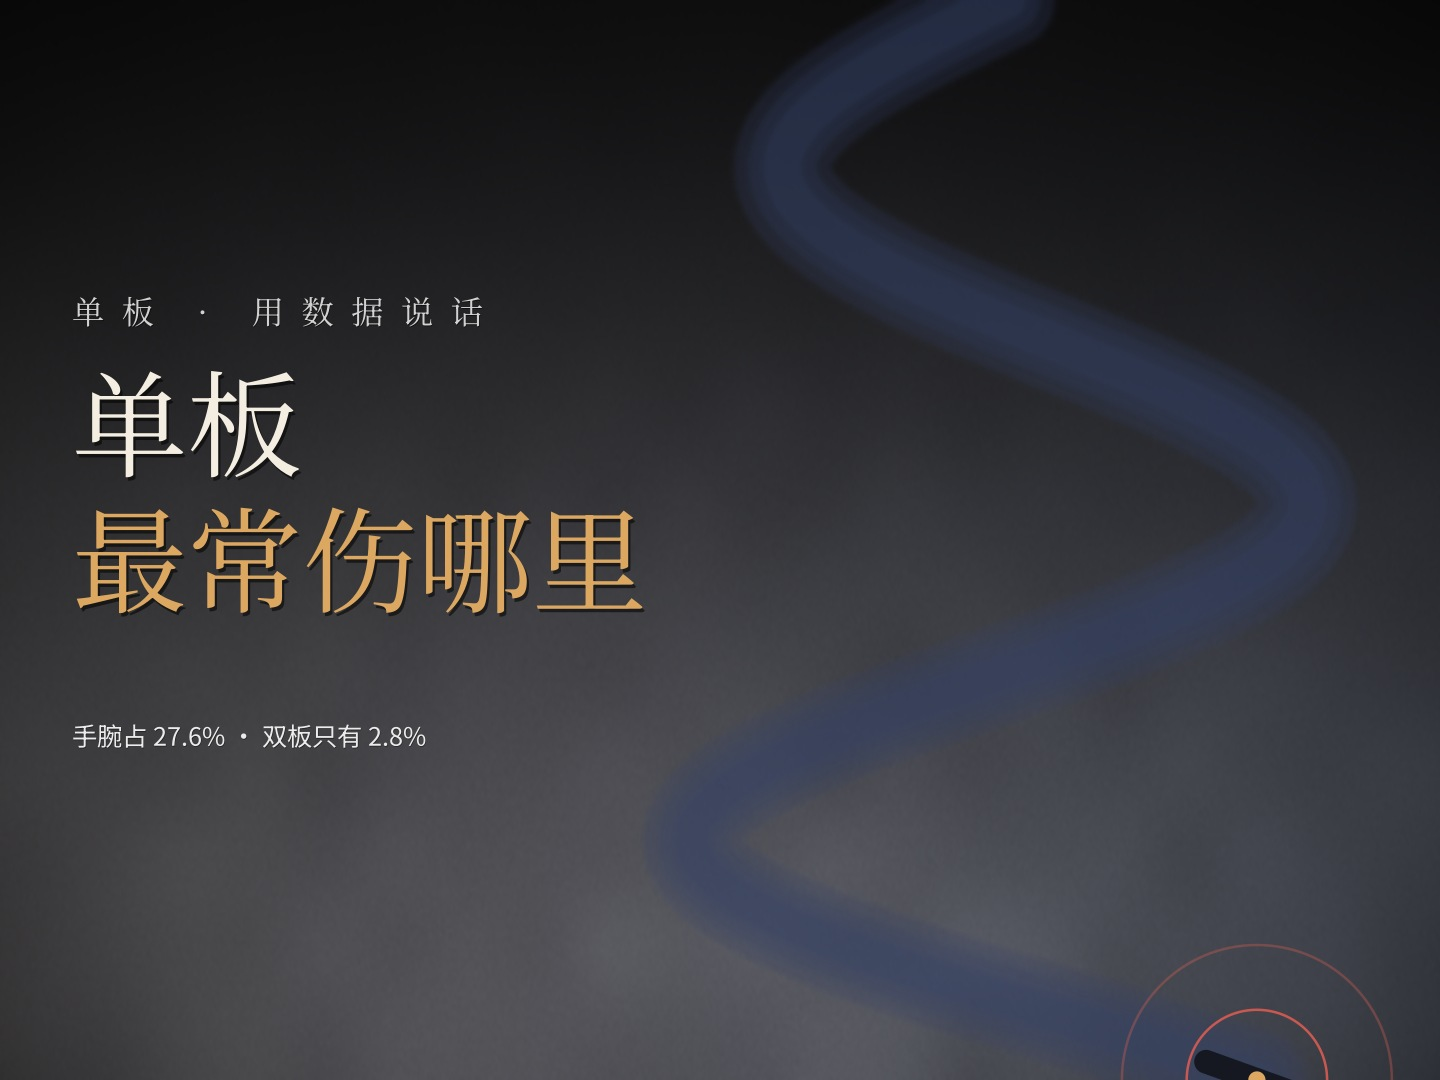
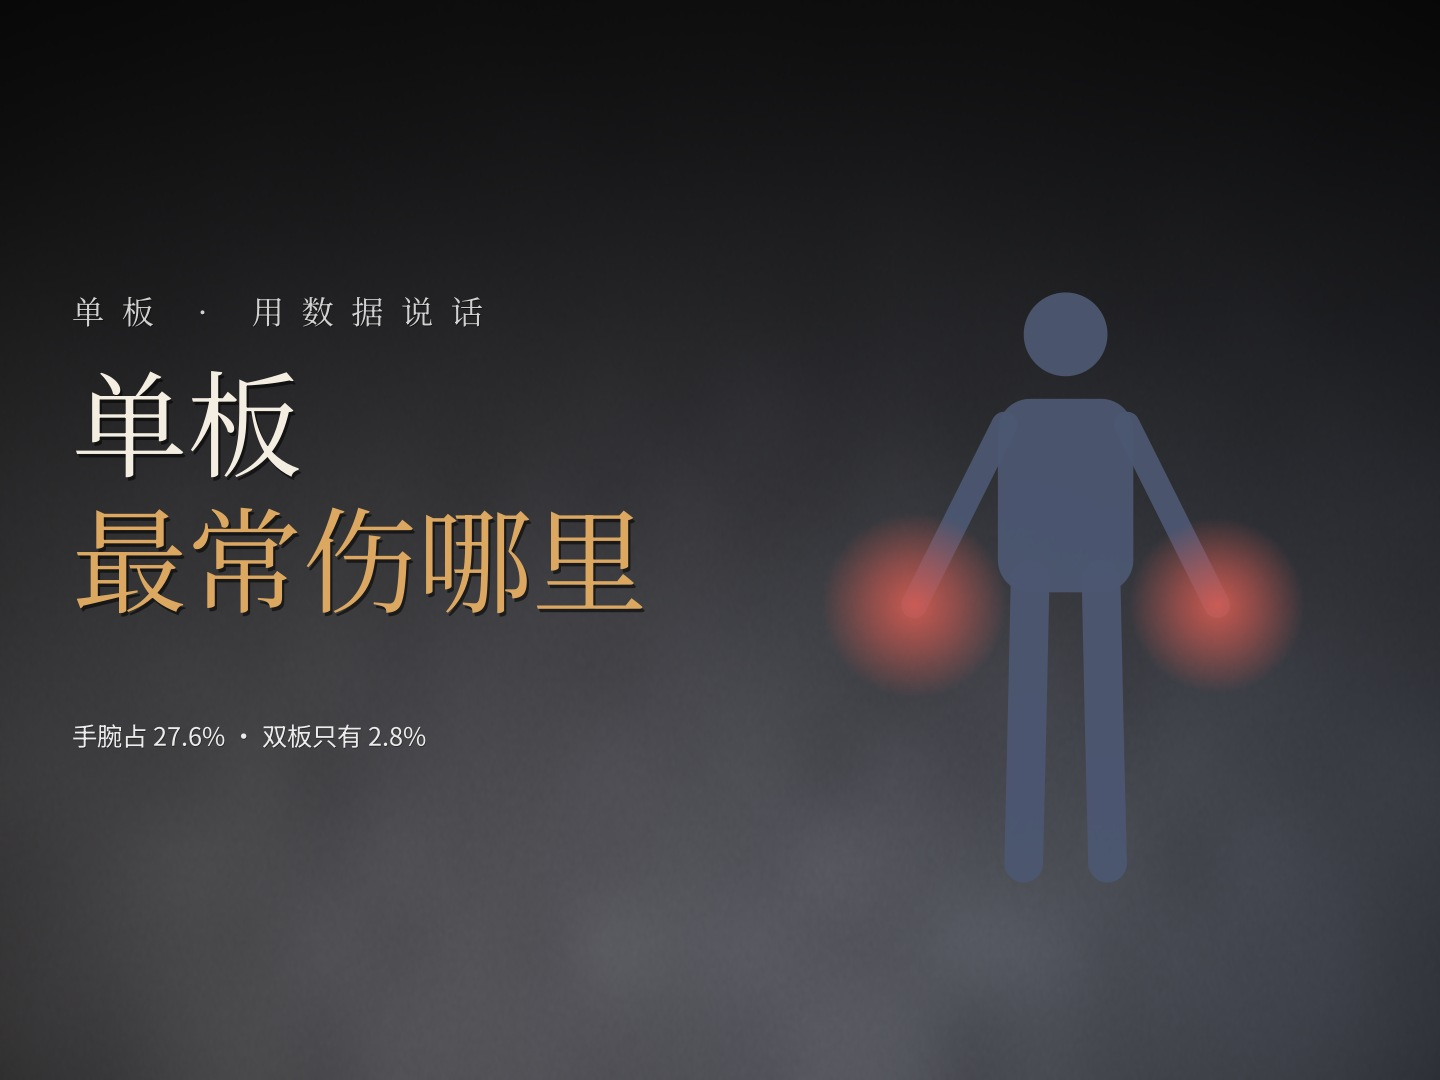
封面：每集换成贴题的独立图形
Claude-Session: https://claude.ai/code/session_011nxU6Xqnvk7sEPthDPKna4

Changed region(s): [[0.5, 0.0, 0.9375, 0.825], [0.8125, 0.9472, 0.9062, 1.0], [0.8438, 0.9167, 0.9062, 0.9472]]

diff --git a/video/ski-data-lib/covers2.py b/video/ski-data-lib/covers2.py
@@ -10,6 +10,7 @@ import cairo
 from PIL import Image, ImageFilter
 from common import font, text_w, SERIF, SANS
 import scenes
+import board as B
 
 SIZES = {"竖版9x16": (1080, 1920), "竖版3x4": (1080, 1440), "横版16x9": (1920, 1080), "横版4x3": (1440, 1080)}
 INKC = (0.95, 0.93, 0.88)
@@ -147,6 +148,53 @@ def motif(c, kind, w, h, portrait, seed):
         c.curve_to(x0 + 20 * k, gy - 30 * k, x0 + 40 * k, gy - 30 * k, x0 + 52 * k, gy + 12 * k); c.stroke(); c.set_dash([])
 
 
+def _place(c, w, h, portrait, box_w, box_h, fx=0.5, fy=0.70, lfx=0.74, lfy=0.55, fill=0.62):
+    """map a box_w x box_h drawing into the free area; returns scale and leaves ctx translated."""
+    if portrait:
+        cx, cy, avail = fx * w, fy * h, fill * w
+    else:
+        cx, cy, avail = lfx * w, lfy * h, 0.42 * w
+    k = min(avail / box_w, (0.55 * h) / box_h)
+    c.translate(cx - box_w * k / 2, cy - box_h * k / 2); c.scale(k, k)
+    return k
+
+
+def motif_scene(c, kind, w, h, portrait):
+    c.save()
+    if kind == "body":
+        _place(c, w, h, portrait, 600, 700)
+        B.body_map(c, 300, 690, 380, [("wrist", 1.0, REDC), ("wrist_r", 0.85, REDC)], 0.95, col=(0.30, 0.34, 0.44))
+    elif kind == "spine":
+        _place(c, w, h, portrait, 600, 700)
+        B.body_map(c, 300, 690, 380, [("spine", 1.0, REDC), ("neck", 0.7, REDC), ("head", 0.5, REDC)], 0.95, col=(0.30, 0.34, 0.44))
+    elif kind == "guard":
+        _place(c, w, h, portrait, 700, 500)
+        c.rectangle(-200, 400, 1100, 300); c.set_source_rgba(0.12, 0.14, 0.19, 0.95); c.fill()
+        B.forearm(c, 360, 400, 360, 0.95, guard=1.0, spread=1.0)
+    elif kind == "calendar":
+        _place(c, w, h, portrait, 700, 760)
+        for i in range(28):
+            x = (i % 7) * 100; y = (i // 7) * 120 + 140
+            B.rounded_rect(c, x, y, 86, 100, 10)
+            col = REDC if i == 0 else (0.30, 0.34, 0.44)
+            c.set_source_rgba(*col, 0.95 if i == 0 else 0.55 - 0.012 * i); c.fill()
+        c.new_path(); c.arc(43, 190, 80, 0, 2 * math.pi); c.set_source_rgba(*REDC, 0.6); c.set_line_width(3); c.stroke()
+    elif kind == "ankle":
+        _place(c, w, h, portrait, 600, 800)
+        B.ankle_bones(c, 300, 430, 230, 0.9, lp_mark=1.0, crack=1.0, label=False)
+        c.new_path(); c.arc(300 + 0.18 * 230, 430 + 0.40 * 230, 60, 0, 2 * math.pi); c.set_source_rgba(*REDC, 0.8); c.set_line_width(3); c.stroke()
+    elif kind == "falls":
+        _place(c, w, h, portrait, 900, 520)
+        c.rectangle(-300, 450, 1500, 300); c.set_source_rgba(0.12, 0.14, 0.19, 0.95); c.fill()
+        B.rider_profile(c, 280, 450, 300, back=1.0, wrist_mark=1.0, alpha=0.95)
+        B.rider_profile(c, 640, 450, 300, fwd=1.0, alpha=0.6)
+    elif kind == "stance":
+        _place(c, w, h, portrait, 800, 600)
+        B.board_top(c, 400, 160, 500, 0.95, angles=(15, -15))
+        B.board_top(c, 400, 440, 500, 0.95, angles=(50, 40))
+    c.restore()
+
+
 def _pipe(d, cx, base, R, flat):
     d.move_to(cx - flat / 2 - R - 40, base - R)
     d.arc_negative(cx - flat / 2, base - R, R, math.pi, math.pi / 2)
@@ -175,7 +223,10 @@ def cover(w, h, path, C):
     portrait = h > w
     img = background(w, h, C.get("seed", 3))
     s, buf = to_surface(img); c = cairo.Context(s)
-    motif(c, C.get("motif", "track"), w, h, portrait, C.get("seed", 3))
+    if C.get("motif") in ("body", "spine", "guard", "calendar", "ankle", "falls", "stance"):
+        motif_scene(c, C["motif"], w, h, portrait)
+    else:
+        motif(c, C.get("motif", "track"), w, h, portrait, C.get("seed", 3))
     lines = C["lines"]
     n = max(len(t) for t, _ in lines)
     if portrait:

diff --git a/video/board-data-EP04/scenes.py b/video/board-data-EP04/scenes.py
@@ -188,4 +188,4 @@ def _cover_fig(c):
 
 
 COVER = dict(lines=["“单板踝”", "被当成崴脚的骨折"], stat="34%", caption="单板脚踝骨折中，距骨外侧突骨折的占比", color=RED, figure=_cover_fig)
-COVER2 = dict(kicker="单板 · 用数据说话", lines=[("单板踝", "ink"), ("被当成崴脚的骨折", "gold")], sub="单板脚踝骨折，三个里就有一个", motif="track", seed=4)
+COVER2 = dict(kicker="单板 · 用数据说话", lines=[("单板踝", "ink"), ("被当成崴脚的骨折", "gold")], sub="单板脚踝骨折，三个里就有一个", motif="ankle", seed=4)

diff --git a/video/board-data-EP08/scenes.py b/video/board-data-EP08/scenes.py
@@ -177,4 +177,4 @@ def _cover_fig(c):
 
 
 COVER = dict(lines=["鸭子站", "还是前倾站？"], stat="21.9 cm", caption="31 cm 的鞋转到 45° 时在板宽方向只占这么多（计算值）", color=GOLD, figure=_cover_fig)
-COVER2 = dict(kicker="单板 · 用数据说话", lines=[("鸭子站", "ice"), ("还是前倾站", "gold")], sub="一个角度，决定鞋会不会伸出板边", motif="track", seed=8)
+COVER2 = dict(kicker="单板 · 用数据说话", lines=[("鸭子站", "ice"), ("还是前倾站", "gold")], sub="一个角度，决定鞋会不会伸出板边", motif="stance", seed=8)

diff --git a/video/board-data-EP07/scenes.py b/video/board-data-EP07/scenes.py
@@ -221,4 +221,4 @@ def _cover_fig(c):
 
 
 COVER = dict(lines=["往后摔", "还是往前摔？"], stat="68%", caption="38 例单板严重颅脑损伤中，往后摔的比例", color=RED, figure=_cover_fig)
-COVER2 = dict(kicker="单板 · 用数据说话", lines=[("往后摔", "ink"), ("还是往前摔", "gold")], sub="严重颅脑损伤 68% 是后摔 · 头撞雪 28 km/h", motif="track", seed=7)
+COVER2 = dict(kicker="单板 · 用数据说话", lines=[("往后摔", "ink"), ("还是往前摔", "gold")], sub="严重颅脑损伤 68% 是后摔 · 头撞雪 28 km/h", motif="falls", seed=7)

diff --git a/video/board-data-EP02/scenes.py b/video/board-data-EP02/scenes.py
@@ -215,4 +215,4 @@ def _cover_fig(c):
 
 
 COVER = dict(lines=["护腕", "到底有没有用？"], stat="↓77%", caption="戴护腕后手腕受伤风险（系统综述，RR 0.23）", color=GOLD, figure=_cover_fig)
-COVER2 = dict(kicker="单板 · 用数据说话", lines=[("护腕", "ink"), ("到底有没有用", "gold")], sub="随机试验：手腕伤 29 例 vs 8 例", motif="track", seed=2)
+COVER2 = dict(kicker="单板 · 用数据说话", lines=[("护腕", "ink"), ("到底有没有用", "gold")], sub="随机试验：手腕伤 29 例 vs 8 例", motif="guard", seed=2)

diff --git a/video/board-data-EP03/scenes.py b/video/board-data-EP03/scenes.py
@@ -219,4 +219,4 @@ def _cover_fig(c):
 
 
 COVER = dict(lines=["第一天", "为什么最危险？"], stat="3.5%", caption="单板初学者第一个半天的受伤概率", color=RED, figure=_cover_fig)
-COVER2 = dict(kicker="单板 · 用数据说话", lines=[("第一天", "ink"), ("为什么最危险", "gold")], sub="第一个半天，受伤概率就有 3.5%", motif="track", seed=3)
+COVER2 = dict(kicker="单板 · 用数据说话", lines=[("第一天", "ink"), ("为什么最危险", "gold")], sub="第一个半天，受伤概率就有 3.5%", motif="calendar", seed=3)

diff --git a/video/board-data-EP05/scenes.py b/video/board-data-EP05/scenes.py
@@ -306,4 +306,4 @@ def _cover_fig(c):
 
 
 COVER = dict(lines=["跳台为什么", "是重伤头号来源？"], stat="66%", caption="新潟 11 年单板脊柱损伤中与跳台有关的比例", color=RED, figure=_cover_fig)
-COVER2 = dict(kicker="单板 · 用数据说话", lines=[("跳台", "ink"), ("重伤头号来源", "gold")], sub="脊柱损伤 66% 和跳台有关", motif="jump", seed=5)
+COVER2 = dict(kicker="单板 · 用数据说话", lines=[("跳台", "ink"), ("重伤头号来源", "gold")], sub="脊柱损伤 66% 和跳台有关", motif="spine", seed=5)

diff --git a/video/board-data-EP01/scenes.py b/video/board-data-EP01/scenes.py
@@ -374,4 +374,4 @@ def _cover_fig(c):
 
 
 COVER = dict(lines=["单板", "最常伤哪里？"], stat="27.6%", caption="手腕占单板伤病的比例（双板仅 2.8%）", color=RED, figure=_cover_fig)
-COVER2 = dict(kicker="单板 · 用数据说话", lines=[("单板", "ink"), ("最常伤哪里", "gold")], sub="手腕占 27.6% · 双板只有 2.8%", motif="track", seed=1)
+COVER2 = dict(kicker="单板 · 用数据说话", lines=[("单板", "ink"), ("最常伤哪里", "gold")], sub="手腕占 27.6% · 双板只有 2.8%", motif="body", seed=1)
